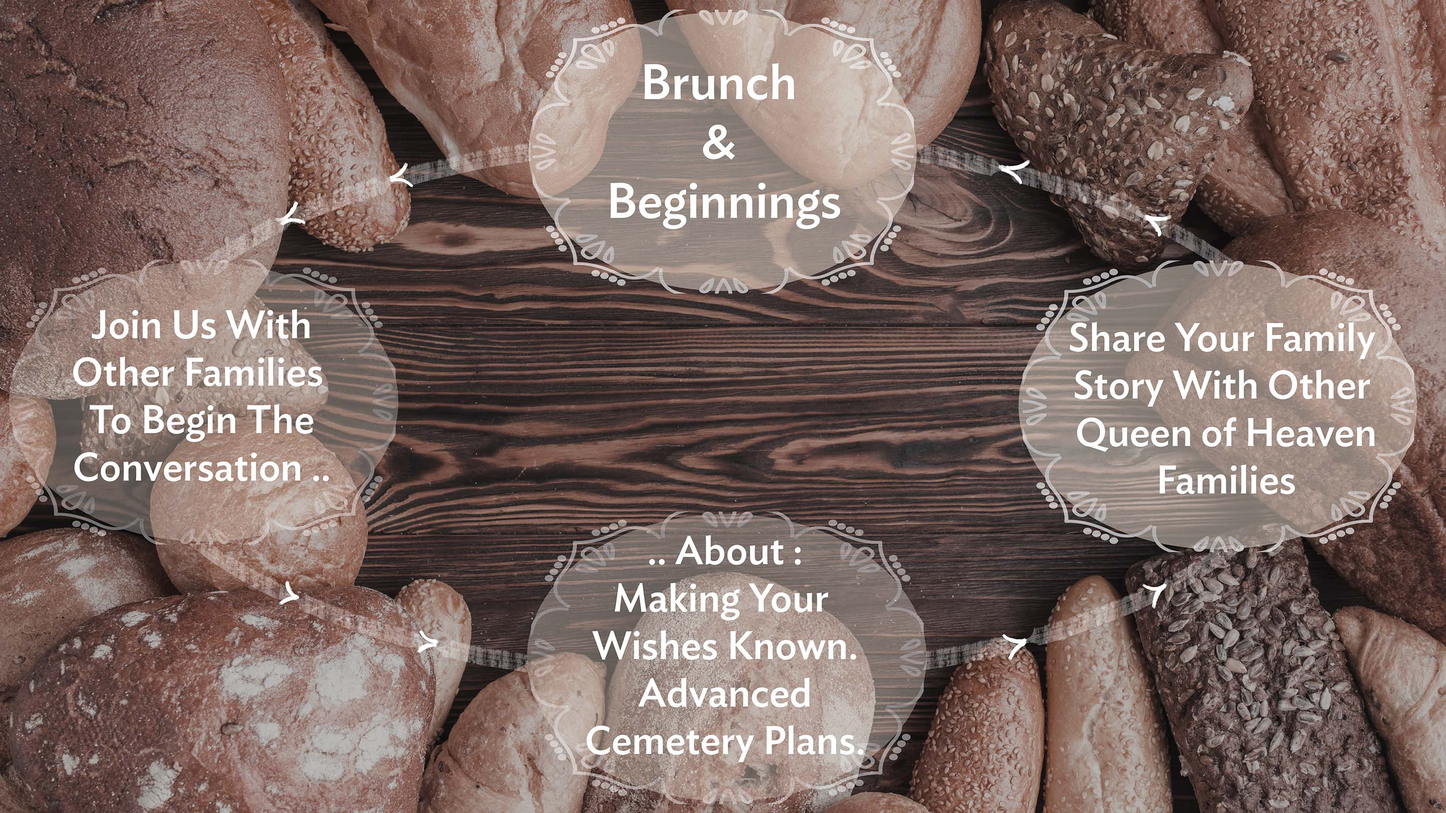
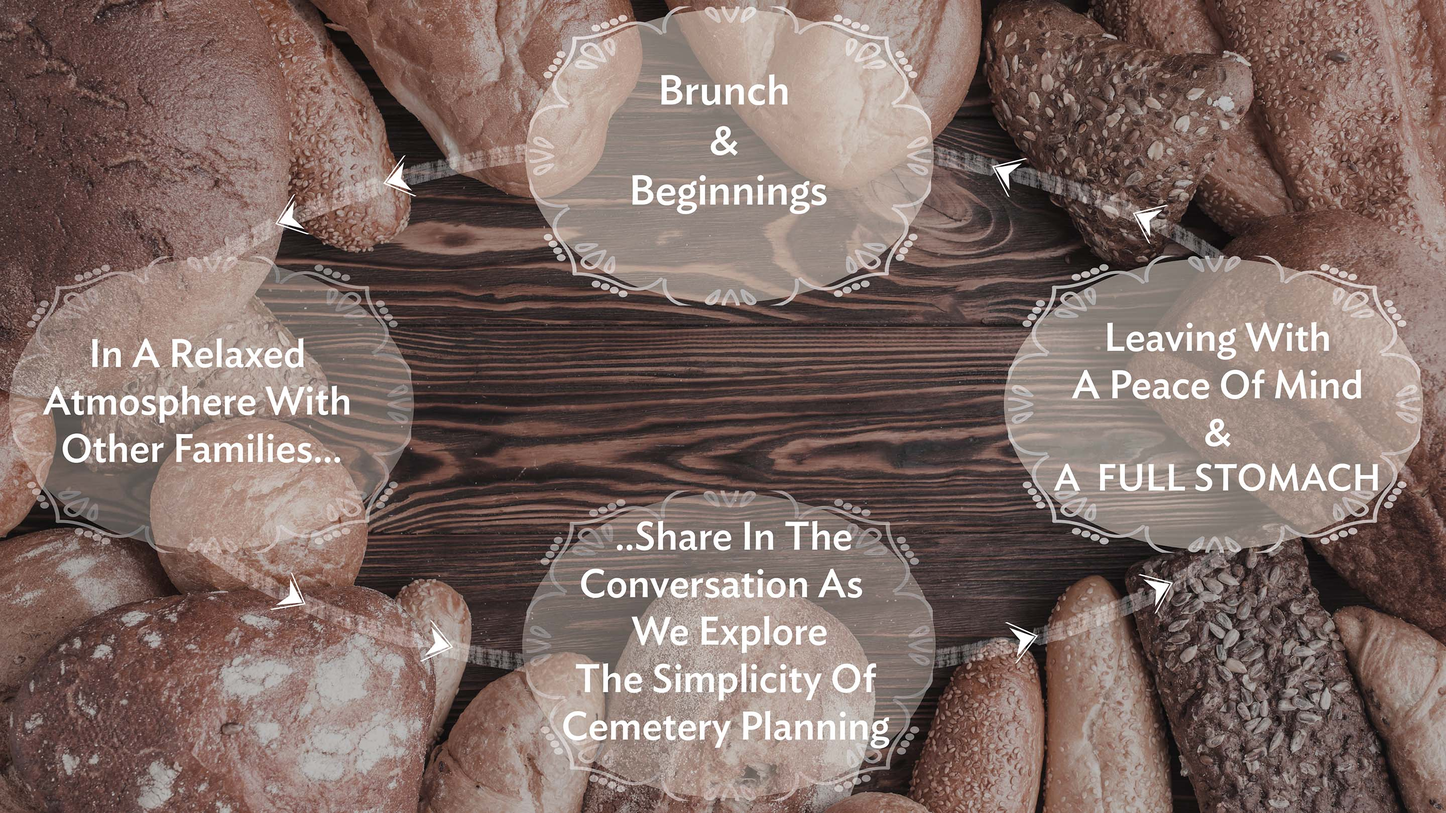
27

diff --git a/index.html b/index.html
@@ -21,14 +21,25 @@
   <section>
     <div class="container-fluid">
       <div class="row">
-        <div class="col-sm-12">
+        <div class="col">
           <img src="images/Brunch-Hero.jpg" class="img-fluid" alt="" width="1920">
         </div>
       </div>
       <div class="row spacerows">
-        <p style="padding-left: 10px; padding-top: 100px;">
-          <h2 style="white padding-bottom: 20px;";>Brunch Event Hosted & Guided By Queen Of Heaven Staff</h2>
-        </p>
+        <div class="col tagline">
+          <h3>It Takes A Ministry To Listen</h3>
+        </div>
+        <div class="col tagline">
+          <h3>A Community To Be Heard</h3>
+        </div>
+        <div class="col tagline">
+          <h3>And Memorialization To Honor</h3>
+        </div>
+      </div>
+      <div class="row spacerows-01">
+        <div class="col">
+          <h3>Brunch Event Hosted & Guided By Queen Of Heaven Ministry Staff</h3>
+        </div>
       </div>
     </div>
   </section>

diff --git a/css/style.css b/css/style.css
@@ -1,7 +1,18 @@
 
+.spacerows{
+  padding: 3px;
+}
+.spacerows-01{
+  padding-left: 3px;
+  padding-top: 10px;
+}
+
 body {
   background-color: #633a34;
 }
-h2 {
+h3 {
   color: white;
+}
+.tagline{
+  font-size: 80%;
 }
